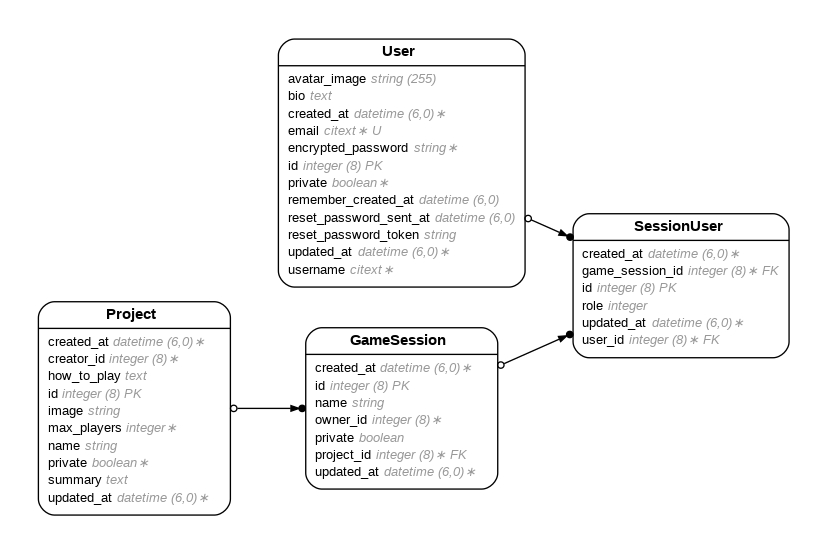
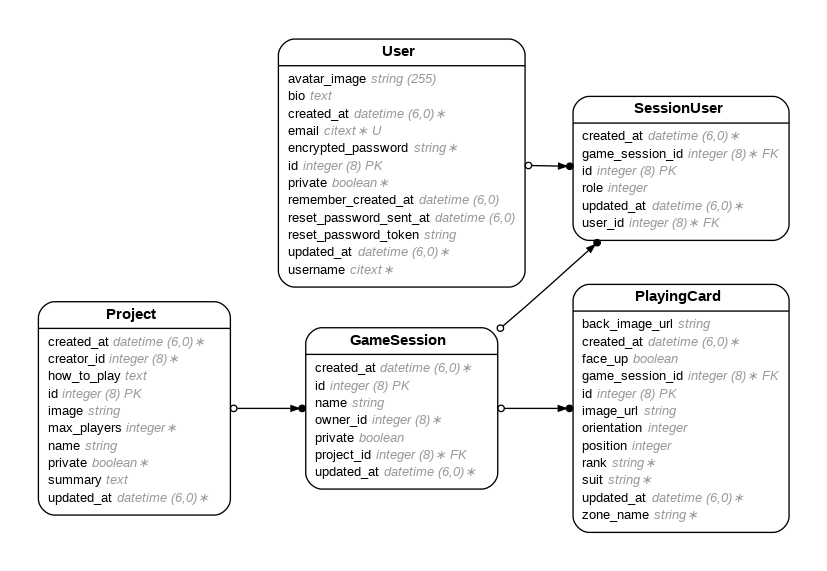
migrated playing_card model

diff --git a/db/schema.rb b/db/schema.rb
@@ -10,7 +10,7 @@
 #
 # It's strongly recommended that you check this file into your version control system.
 
-ActiveRecord::Schema[8.0].define(version: 2026_01_19_183213) do
+ActiveRecord::Schema[8.0].define(version: 2026_01_19_185831) do
   # These are extensions that must be enabled in order to support this database
   enable_extension "citext"
   enable_extension "pg_catalog.plpgsql"
@@ -24,6 +24,22 @@ ActiveRecord::Schema[8.0].define(version: 2026_01_19_183213) do
     t.datetime "updated_at", null: false
     t.index ["owner_id"], name: "index_game_sessions_on_owner_id"
     t.index ["project_id"], name: "index_game_sessions_on_project_id"
+  end
+
+  create_table "playing_cards", force: :cascade do |t|
+    t.bigint "game_session_id", null: false
+    t.string "suit", null: false
+    t.string "rank", null: false
+    t.string "zone_name", null: false
+    t.boolean "face_up", default: false
+    t.integer "orientation", default: 0
+    t.integer "position"
+    t.string "image_url"
+    t.string "back_image_url"
+    t.datetime "created_at", null: false
+    t.datetime "updated_at", null: false
+    t.index ["game_session_id", "zone_name", "position"], name: "idx_on_game_session_id_zone_name_position_682e3c4900"
+    t.index ["game_session_id"], name: "index_playing_cards_on_game_session_id"
   end
 
   create_table "projects", force: :cascade do |t|
@@ -69,6 +85,7 @@ ActiveRecord::Schema[8.0].define(version: 2026_01_19_183213) do
 
   add_foreign_key "game_sessions", "projects"
   add_foreign_key "game_sessions", "users", column: "owner_id"
+  add_foreign_key "playing_cards", "game_sessions"
   add_foreign_key "projects", "users", column: "creator_id"
   add_foreign_key "session_users", "game_sessions"
   add_foreign_key "session_users", "users"

diff --git a/app/models/playing_card.rb b/app/models/playing_card.rb
@@ -1,0 +1,29 @@
+# == Schema Information
+#
+# Table name: playing_cards
+#
+#  id              :bigint           not null, primary key
+#  back_image_url  :string
+#  face_up         :boolean          default(FALSE)
+#  image_url       :string
+#  orientation     :integer          default(0)
+#  position        :integer
+#  rank            :string           not null
+#  suit            :string           not null
+#  zone_name       :string           not null
+#  created_at      :datetime         not null
+#  updated_at      :datetime         not null
+#  game_session_id :bigint           not null
+#
+# Indexes
+#
+#  idx_on_game_session_id_zone_name_position_682e3c4900  (game_session_id,zone_name,position)
+#  index_playing_cards_on_game_session_id                (game_session_id)
+#
+# Foreign Keys
+#
+#  fk_rails_...  (game_session_id => game_sessions.id)
+#
+class PlayingCard < ApplicationRecord
+  belongs_to :game_session
+end

diff --git a/db/migrate/20260119185831_create_playing_cards.rb b/db/migrate/20260119185831_create_playing_cards.rb
@@ -1,0 +1,19 @@
+class CreatePlayingCards < ActiveRecord::Migration[8.0]
+  def change
+    create_table :playing_cards do |t|
+      t.references :game_session, null: false, foreign_key: true
+      t.string :suit, null: false
+      t.string :rank, null: false
+      t.string :zone_name, null: false
+      t.boolean :face_up, default: false
+      t.integer :orientation, default: 0
+      t.integer :position
+      t.string :image_url
+      t.string :back_image_url
+
+      t.timestamps
+    end
+
+    add_index :playing_cards, [:game_session_id, :zone_name, :position]
+  end
+end

diff --git a/db/migrate/20260119183213_create_session_users.rb b/db/migrate/20260119183213_create_session_users.rb
@@ -11,3 +11,5 @@ class CreateSessionUsers < ActiveRecord::Migration[8.0]
     add_index :session_users, [:game_session_id, :user_id], unique: true
   end
 end
+
+
